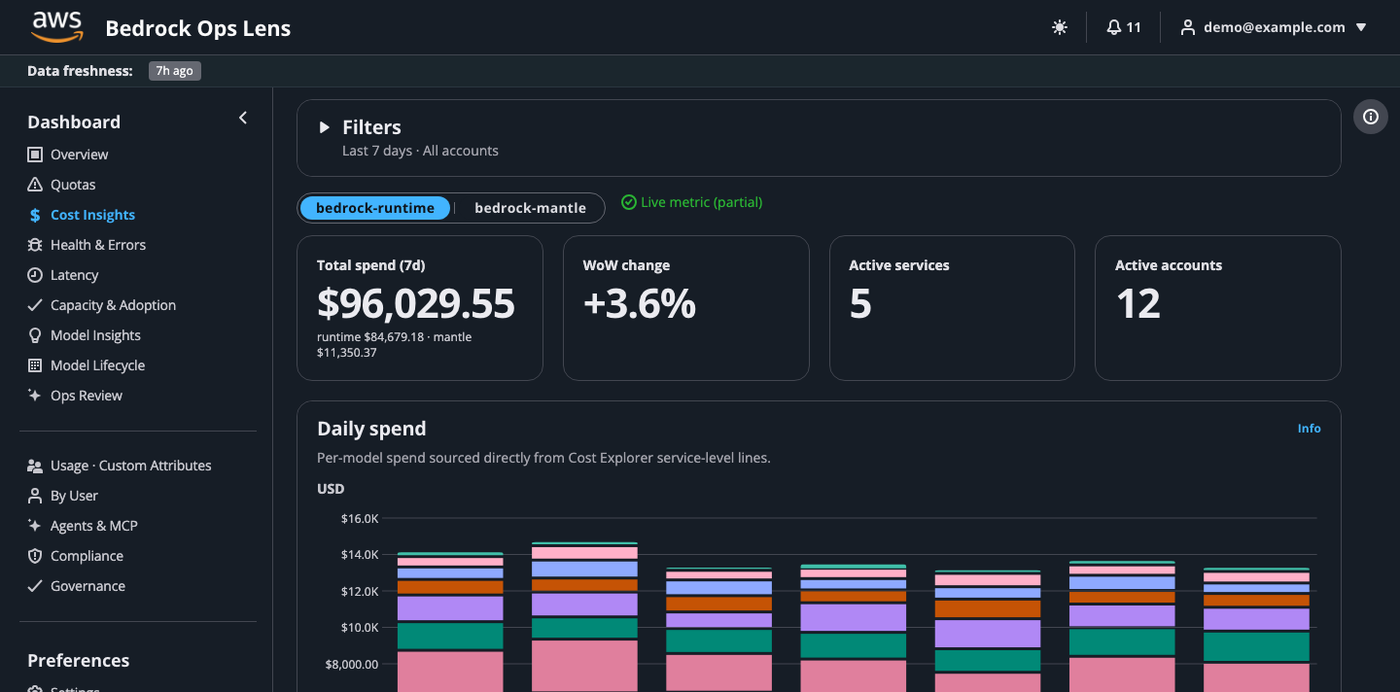
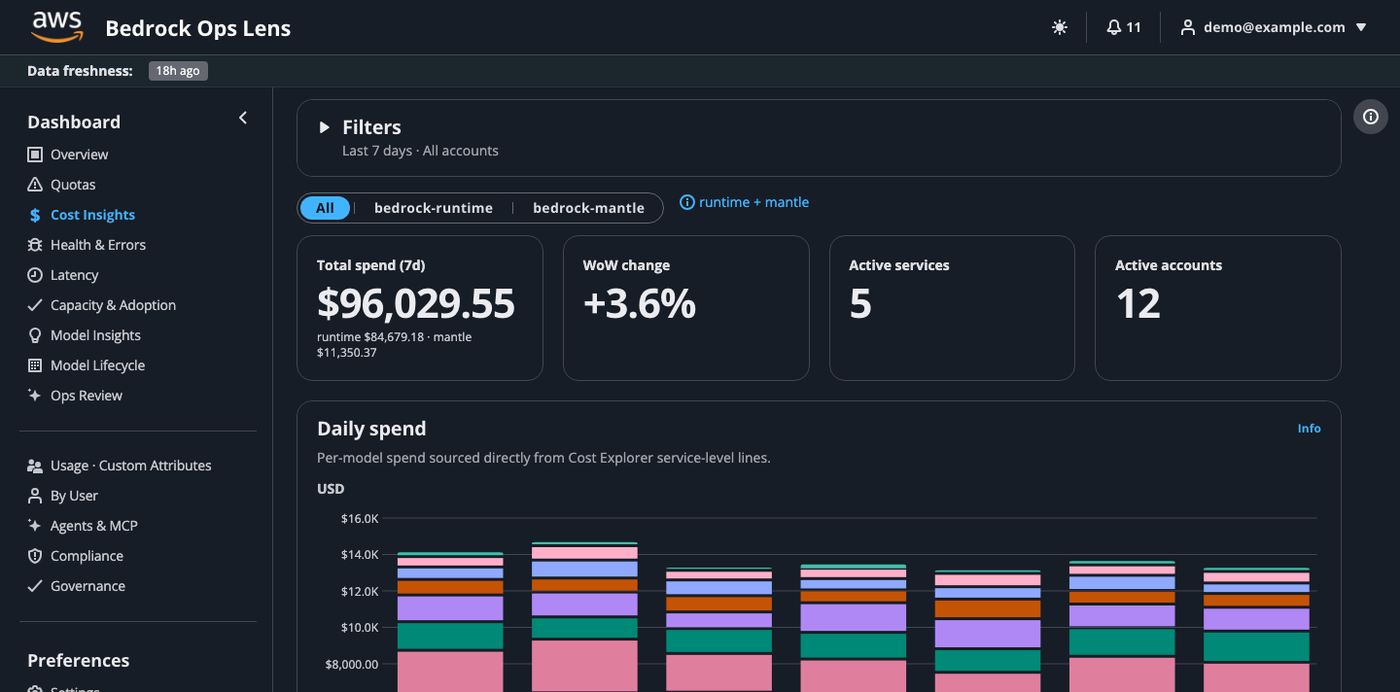
Fix endpoint switcher, spend tile and Account split pie
All segment on the runtime/mantle switcher, pie folds all accounts into Other.

Changed region(s): [[0.215, 0.2731, 0.5836, 0.3338], [0.1229, 0.091, 0.1536, 0.1214]]

diff --git a/frontend/src/tabs/OverviewTab.jsx b/frontend/src/tabs/OverviewTab.jsx
@@ -10,6 +10,7 @@ import {
 } from '../components/Common.jsx';
 import PaginatedTable from '../components/PaginatedTable.jsx';
 import EndpointSubTabs from '../components/EndpointSubTabs.jsx';
+import { accountSplitSlices } from '../accountSplit.js';
 import { utcDayOf, utcDayFromString, fmtDayUTC } from '../dates';
 
 function modelShort(id) {
@@ -86,9 +87,6 @@ export default function OverviewTab({ filters, onInfo }) {
 
 function OverviewBody({ filters, onInfo }) {
   const [groupBy, setGroupBy] = useState(GROUP_BY_OPTIONS[0]);
-  // Spend tile in-card toggle: on an endpoint sub-tab, flip between that
-  // endpoint's allocated slice ('endpoint') and the combined CE total ('total').
-  const [spendView, setSpendView] = useState('endpoint');
 
   const summary = useApi('/summary', filters, [JSON.stringify(filters)]);
   // Pass the SAME filters as the KPIs these deltas annotate (audit finding 10):
@@ -304,13 +302,8 @@ function OverviewBody({ filters, onInfo }) {
     return Array.from(buckets, ([title, value]) => ({ title, value }));
   }, [byTraffic.data]);
 
-  const accountTypeData = useMemo(() => {
-    if (!byAcct.data) return [];
-    return byAcct.data.map(r => ({
-      title: `${r.account_type} (${fmt(r.unique_accounts)} accts)`,
-      value: Number(r.total_requests),
-    }));
-  }, [byAcct.data]);
+  // Largest first, tail folded into "Other" (see accountSplit.js).
+  const accountTypeData = useMemo(() => accountSplitSlices(byAcct.data, fmt), [byAcct.data]);
 
   const opsData = useMemo(() => {
     if (!byOp.data) return [];
@@ -424,31 +417,30 @@ function OverviewBody({ filters, onInfo }) {
           const ep = filters.endpoint;
           const be = cost.data?.by_endpoint;
           const onEndpoint = (ep === 'runtime' || ep === 'mantle') && be;
-          // On an endpoint sub-tab, the in-card toggle picks which figure shows:
-          // that endpoint's allocated slice, or the combined CE total.
-          const showAlloc = onEndpoint && spendView === 'endpoint';
+          // The endpoint sub-tabs already pick the endpoint, so the tile has no
+          // toggle of its own. On an endpoint sub-tab the headline is that
+          // endpoint's allocated slice and the caption carries the exact CE
+          // total for the same window and accounts (`scope_total_all_endpoints`;
+          // the scoped response's `total_cost` is already the slice). The WoW
+          // badge describes the scoped total, so it stays off there.
           const cur = cost.data?.currency === 'USD' ? '$' : (cost.data?.currency || '') + ' ';
-          const amount = showAlloc ? Number(be[ep] || 0) : Number(cost.data?.total_cost || 0);
+          const amount = onEndpoint ? Number(be[ep] || 0) : Number(cost.data?.total_cost || 0);
+          const combined = cost.data?.scope_total_all_endpoints;
           const fmtUsd = (n) => `${cur}${n.toLocaleString(undefined, {
             minimumFractionDigits: 2, maximumFractionDigits: 2 })}`;
           return (
             <KpiCard title="Total spend"
-                     tabs={onEndpoint ? {
-                       selectedId: spendView,
-                       onChange: setSpendView,
-                       options: [
-                         { id: 'endpoint', text: ep === 'mantle' ? 'Mantle' : 'Runtime' },
-                         { id: 'total', text: 'Total' },
-                       ],
-                     } : undefined}
                      value={cost.data ? fmtUsd(amount) : '—'}
-                     wow={showAlloc ? undefined : [cost.data?.total_cost, cost.data?.previous_total_cost]}
+                     wow={onEndpoint ? undefined : [cost.data?.total_cost, cost.data?.previous_total_cost]}
                      invert
                      split={be && ep === 'all'
                        ? { runtime: fmtUsd(Number(be.runtime || 0)),
                            mantle: be.mantle != null ? fmtUsd(Number(be.mantle)) : null }
                        : undefined}
-                     note={showAlloc ? 'token-cost share' : undefined} />
+                     note={!onEndpoint ? undefined
+                       : combined != null
+                         ? `token-cost share of ${fmtUsd(Number(combined))} (Cost Explorer total)`
+                         : 'token-cost share'} />
           );
         })()}
       </Grid>
@@ -675,6 +667,10 @@ function OverviewBody({ filters, onInfo }) {
         <Container fitHeight header={<SectionHeader title="Account split" sectionId="internal-external" onInfo={onInfo} />}>
           {byAcct.loading ? <ChartLoading height={180} /> :
             <PieChart data={accountTypeData} size="small" hideFilter
+                      // Past a few slices the on-chart titles collide with
+                      // each other and the legend; the legend and hover
+                      // popover carry the names instead.
+                      hideTitles={accountTypeData.length > 4}
                       ariaLabel="Account split"
                       empty="No data" />
           }

diff --git a/frontend/src/tabs/CostTab.jsx b/frontend/src/tabs/CostTab.jsx
@@ -66,8 +66,9 @@ export default function CostTab({ filters, onInfo }) {
   const filtersWithEp = useMemo(() => ({ ...filters, endpoint }), [filters, endpoint]);
   return (
     <EndpointSubTabs
-      selected={endpoint === 'all' ? 'runtime' : endpoint}
+      selected={endpoint}
       onChange={setEndpoint}
+      allowAll
       runtimeCoverage="metric"
       mantleCoverage="metric"
       mantleAvailable={mantleAvailable}
@@ -78,10 +79,6 @@ export default function CostTab({ filters, onInfo }) {
 }
 
 function CostBody({ filters, endpoint, onInfo }) {
-  // In-card toggle on the Total spend tile (endpoint sub-tabs only): flip
-  // between this endpoint's allocated slice and the combined CE total —
-  // mirrors the Overview tab's spend tile.
-  const [spendView, setSpendView] = useState('endpoint');
   const summary  = useApi('/cost-summary',           filters, [JSON.stringify(filters)]);
   const daily    = useApi('/cost-daily',             filters, [JSON.stringify(filters)]);
   const byAcct   = useApi('/cost-by-account',        filters, [JSON.stringify(filters)]);
@@ -152,31 +149,26 @@ function CostBody({ filters, endpoint, onInfo }) {
           the invoice-accurate Cost Explorer total apportioned per model/account/day
           by token-cost weight. AWS bills Bedrock without a runtime/mantle
           dimension, so this is an allocation, not a billed per-endpoint amount.
-          Switch to the combined view for exact CE dollars.
+          Select <strong>All</strong> for the exact Cost Explorer dollars.
         </Alert>
       )}
       {/* 1. KPI ribbon */}
       <Grid gridDefinition={[{ colspan: 3 }, { colspan: 3 }, { colspan: 3 }, { colspan: 3 }]}>
         {(() => {
           // CE gives an invoice-accurate TOTAL but no runtime-vs-mantle
-          // dimension. On an endpoint sub-tab, the in-card toggle picks which
-          // figure shows: that endpoint's ALLOCATED slice (total split by
-          // token-cost weight) or the combined CE total. On 'all' there's no
-          // toggle — just show the total plus the runtime·mantle split line.
+          // dimension. The endpoint sub-tabs above already pick the endpoint,
+          // so the tile carries no toggle of its own: on an endpoint sub-tab
+          // the headline is that endpoint's ALLOCATED slice (total split by
+          // token-cost weight) and the caption carries the exact CE total for
+          // the same window and accounts (`scope_total_all_endpoints`; the
+          // scoped response's `total_cost` is already the slice). On 'all' it
+          // is the total plus the runtime·mantle split line.
           const be = s.by_endpoint;
           const onEndpoint = (endpoint === 'runtime' || endpoint === 'mantle') && be;
-          const showAlloc = onEndpoint && spendView === 'endpoint';
-          const amount = showAlloc ? Number(be[endpoint] || 0) : Number(s.total_cost || 0);
+          const amount = onEndpoint ? Number(be[endpoint] || 0) : Number(s.total_cost || 0);
+          const combined = s.scope_total_all_endpoints;
           return (
             <KpiCard title={`Total spend (${s.window?.days || '—'}d)`}
-                     tabs={onEndpoint ? {
-                       selectedId: spendView,
-                       onChange: setSpendView,
-                       options: [
-                         { id: 'endpoint', text: endpoint === 'mantle' ? 'Mantle' : 'Runtime' },
-                         { id: 'total', text: 'Total' },
-                       ],
-                     } : undefined}
                      value={s.total_cost != null ? fmtCurrency(amount, currency) : '—'}
                      // Endpoint split line only on the combined 'all' view, and
                      // only when there's actual mantle spend to break out.
@@ -184,7 +176,10 @@ function CostBody({ filters, endpoint, onInfo }) {
                        ? { runtime: fmtCurrency(Number(be.runtime || 0), currency),
                            mantle: fmtCurrency(Number(be.mantle || 0), currency) }
                        : undefined}
-                     note={showAlloc ? 'token-cost share' : undefined} />
+                     note={!onEndpoint ? undefined
+                       : combined != null
+                         ? `token-cost share of ${fmtCurrency(Number(combined), currency)} (Cost Explorer total)`
+                         : 'token-cost share'} />
           );
         })()}
         <KpiCard title="WoW change"

diff --git a/frontend/src/components/EndpointSubTabs.jsx b/frontend/src/components/EndpointSubTabs.jsx
@@ -19,6 +19,8 @@
 //                    think the switcher is broken when nothing changes.
 //   'none'         — Mantle does not publish this signal at all; render
 //                    an explicit "not available" empty state, NEVER zero
+//   'combined'     — the "All" segment (opt-in via `allowAll`): both
+//                    endpoints summed, so neither coverage label applies
 //
 // Design rule: never show a blank/zero chart for Mantle when the source
 // has no data — that's indistinguishable from "healthy" and would mislead
@@ -36,13 +38,21 @@ const COVERAGE_LABEL = {
   defaults:     { label: 'Defaults only',          type: 'info' },
   shared:       { label: 'Endpoint-agnostic',      type: 'info' },
   none:         { label: 'Not available',          type: 'warning' },
+  combined:     { label: 'runtime + mantle',       type: 'info' },
 };
 
 export default function EndpointSubTabs({
-  selected,                // 'runtime' | 'mantle'
+  selected,                // 'runtime' | 'mantle' | 'all' (with allowAll)
   onChange,                // (next) => void
   runtimeCoverage = 'full',
   mantleCoverage  = 'metric',
+  // When true, an "All" segment precedes the endpoint segments and sums
+  // both endpoints. Tabs whose figures add up across endpoints (cost,
+  // errors, latency, model mix) opt in, so a tab that opens on the
+  // combined picture highlights "All" instead of a runtime segment that
+  // doesn't match its numbers. Tabs whose figures don't combine (quota
+  // limits) leave it off.
+  allowAll = false,
   // When false, the bedrock-mantle segment is HIDDEN entirely — no
   // switcher, no coverage badge, just the runtime body. Use this for
   // tabs whose signal Mantle genuinely doesn't publish (and can't be
@@ -59,7 +69,7 @@ export default function EndpointSubTabs({
     return children({ endpoint: 'runtime', coverage: runtimeCoverage });
   }
 
-  const coverageMap = { runtime: runtimeCoverage, mantle: mantleCoverage };
+  const coverageMap = { runtime: runtimeCoverage, mantle: mantleCoverage, all: 'combined' };
   const activeCov = coverageMap[selected] || 'none';
   const meta = COVERAGE_LABEL[activeCov];
 
@@ -76,6 +86,7 @@ export default function EndpointSubTabs({
             selectedId={selected}
             onChange={({ detail }) => onChange(detail.selectedId)}
             options={[
+              ...(allowAll ? [{ id: 'all', text: 'All' }] : []),
               { id: 'runtime', text: 'bedrock-runtime' },
               { id: 'mantle',  text: 'bedrock-mantle' },
             ]}

diff --git a/frontend/src/components/Common.jsx b/frontend/src/components/Common.jsx
@@ -1,5 +1,5 @@
 // Reusable presentational components shared across tabs.
-import { Container, Box, Header, Spinner, Link, StatusIndicator, SegmentedControl } from '@cloudscape-design/components';
+import { Container, Box, Header, Spinner, Link, StatusIndicator } from '@cloudscape-design/components';
 
 export function ChartLoading({ height = 220, label = 'Loading…' }) {
   return (
@@ -15,7 +15,7 @@ export function ChartLoading({ height = 220, label = 'Loading…' }) {
   );
 }
 
-export function KpiCard({ title, value, wow, invert, split, note, tabs }) {
+export function KpiCard({ title, value, wow, invert, split, note }) {
   // A KPI value is usually a short number ("547", "4.20%") but sometimes a
   // free-text string ("search-service"). Long strings at display-l wrap to two
   // lines and make one tile taller than its row-mates — the KPI ribbon then
@@ -33,18 +33,6 @@ export function KpiCard({ title, value, wow, invert, split, note, tabs }) {
   return (
     <Container fitHeight>
       <Box variant="awsui-key-label">{title}</Box>
-      {/* Optional in-card toggle — e.g. flip the spend tile between an
-          endpoint's allocated slice and the combined Total. */}
-      {tabs ? (
-        <Box padding={{ bottom: 'xxs' }}>
-          <SegmentedControl
-            selectedId={tabs.selectedId}
-            onChange={({ detail }) => tabs.onChange(detail.selectedId)}
-            options={tabs.options}
-            label={title}
-          />
-        </Box>
-      ) : null}
       <Box
         variant="h1"
         fontSize={valFontSize}

diff --git a/frontend/src/accountSplit.js b/frontend/src/accountSplit.js
@@ -1,0 +1,27 @@
+// Slices for the Overview "Account split" pie. Kept free of React so the
+// fold can be unit-tested directly.
+//
+// One slice per account type, largest first. Without an account-type mapping
+// every account is its own "type" (a bare account ID holding one account), so
+// the "(n accts)" suffix is kept for real groups only, and anything past the
+// top MAX_ACCOUNT_SLICES folds into "Other" so the pie stays legible. The API
+// returns every account group; the fold has to see them all, or "Other" would
+// understate both its account count and the chart's total.
+export const MAX_ACCOUNT_SLICES = 6;
+
+export function accountSplitSlices(rows, fmt = String) {
+  if (!Array.isArray(rows)) return [];
+  const sorted = rows
+    .map(r => ({ type: String(r.account_type), accounts: Number(r.unique_accounts || 0),
+                 value: Number(r.total_requests || 0) }))
+    .sort((a, b) => b.value - a.value);
+  const slice = r => ({ title: r.accounts > 1 ? `${r.type} (${fmt(r.accounts)} accts)` : r.type,
+                        value: r.value });
+  if (sorted.length <= MAX_ACCOUNT_SLICES + 1) return sorted.map(slice);
+  const tail = sorted.slice(MAX_ACCOUNT_SLICES);
+  return [
+    ...sorted.slice(0, MAX_ACCOUNT_SLICES).map(slice),
+    { title: `Other (${fmt(tail.reduce((n, r) => n + r.accounts, 0))} accts)`,
+      value: tail.reduce((n, r) => n + r.value, 0) },
+  ];
+}

diff --git a/frontend/src/tabs/LatencyTab.jsx b/frontend/src/tabs/LatencyTab.jsx
@@ -47,8 +47,9 @@ export default function LatencyTab({ filters, onInfo }) {
   const filtersWithEp = useMemo(() => ({ ...filters, endpoint }), [filters, endpoint]);
   return (
     <EndpointSubTabs
-      selected={endpoint === 'all' ? 'runtime' : endpoint}
+      selected={endpoint}
       onChange={setEndpoint}
+      allowAll
       runtimeCoverage="full"
       mantleCoverage="log-derived"
       mantleAvailable={mantleAvailable}

diff --git a/frontend/src/tabs/ErrorsTab.jsx b/frontend/src/tabs/ErrorsTab.jsx
@@ -43,8 +43,9 @@ export default function ErrorsTab({ filters, onInfo }) {
   const filtersWithEp = useMemo(() => ({ ...filters, endpoint }), [filters, endpoint]);
   return (
     <EndpointSubTabs
-      selected={endpoint === 'all' ? 'runtime' : endpoint}
+      selected={endpoint}
       onChange={setEndpoint}
+      allowAll
       runtimeCoverage="full"
       mantleCoverage="metric"
       mantleAvailable={mantleAvailable}

diff --git a/frontend/src/tabs/ModelInsightsTab.jsx b/frontend/src/tabs/ModelInsightsTab.jsx
@@ -120,8 +120,9 @@ export default function ModelInsightsTab({ filters, onInfo }) {
   return (
     <SpaceBetween size="m">
       <EndpointSubTabs
-        selected={endpoint === 'all' ? 'runtime' : endpoint}
+        selected={endpoint}
         onChange={setEndpoint}
+        allowAll
         runtimeCoverage="full"
         mantleCoverage="metric"
         mantleAvailable={mantleAvailable}

diff --git a/tests/test_account_split_db.py b/tests/test_account_split_db.py
@@ -1,0 +1,33 @@
+"""The Overview "Account split" pie folds every account past the top six into
+an "Other" slice, so /account-type-split has to return every account group.
+An earlier LIMIT 8 made that slice silently omit accounts nine onwards."""
+from __future__ import annotations
+
+from test_inference_profiles_db import TODAY, conn, daily, postgres  # noqa: F401
+
+from app.filters import FilterSet
+from app.routers import extras
+
+MODEL = "amazon.nova-pro-v1:0"
+
+
+async def test_every_account_group_is_returned_largest_first(conn):
+    accounts = [f"{100000000000 + i}" for i in range(12)]
+    for i, account in enumerate(accounts):
+        await daily(conn, MODEL, (i + 1) * 100, account=account)
+
+    rows = await extras.account_type_split(FilterSet(start=TODAY, end=TODAY))
+
+    assert len(rows) == 12
+    assert [r["total_requests"] for r in rows] == [(12 - i) * 100 for i in range(12)]
+    assert {r["account_type"] for r in rows} == set(accounts)
+    assert all(r["unique_accounts"] == 1 for r in rows)
+    assert sum(r["total_requests"] for r in rows) == sum((i + 1) * 100 for i in range(12))
+
+
+async def test_account_filter_still_scopes_the_split(conn):
+    for i in range(3):
+        await daily(conn, MODEL, 50 * (i + 1), account=f"{200000000000 + i}")
+    rows = await extras.account_type_split(
+        FilterSet(start=TODAY, end=TODAY, accounts=("200000000001",)))
+    assert [(r["account_type"], r["total_requests"]) for r in rows] == [("200000000001", 100)]

diff --git a/backend/app/routers/extras.py b/backend/app/routers/extras.py
@@ -90,7 +90,10 @@ async def account_type_split(f: FilterSet = Depends(parse_filters)):
     """Split by account_type. The internal version distinguished
     Internal/External; the customer version doesn't have that dimension —
     we group by accountId and label each as "Account <id>" so the pie still
-    has meaningful slices."""
+    has meaningful slices. Every account comes back, largest first: the pie
+    folds the tail into an "Other" slice itself, and a cap here would make
+    that slice silently omit accounts (an earlier LIMIT 8 did exactly that,
+    so twelve accounts rendered as six plus "Other (2 accts)")."""
     w = build_where(f)
     rows = await db.fetch(
         f"""
@@ -101,7 +104,6 @@ async def account_type_split(f: FilterSet = Depends(parse_filters)):
         WHERE {w.sql}
         GROUP BY accountId
         ORDER BY total_requests DESC
-        LIMIT 8
         """,
         *w.params,
     )
